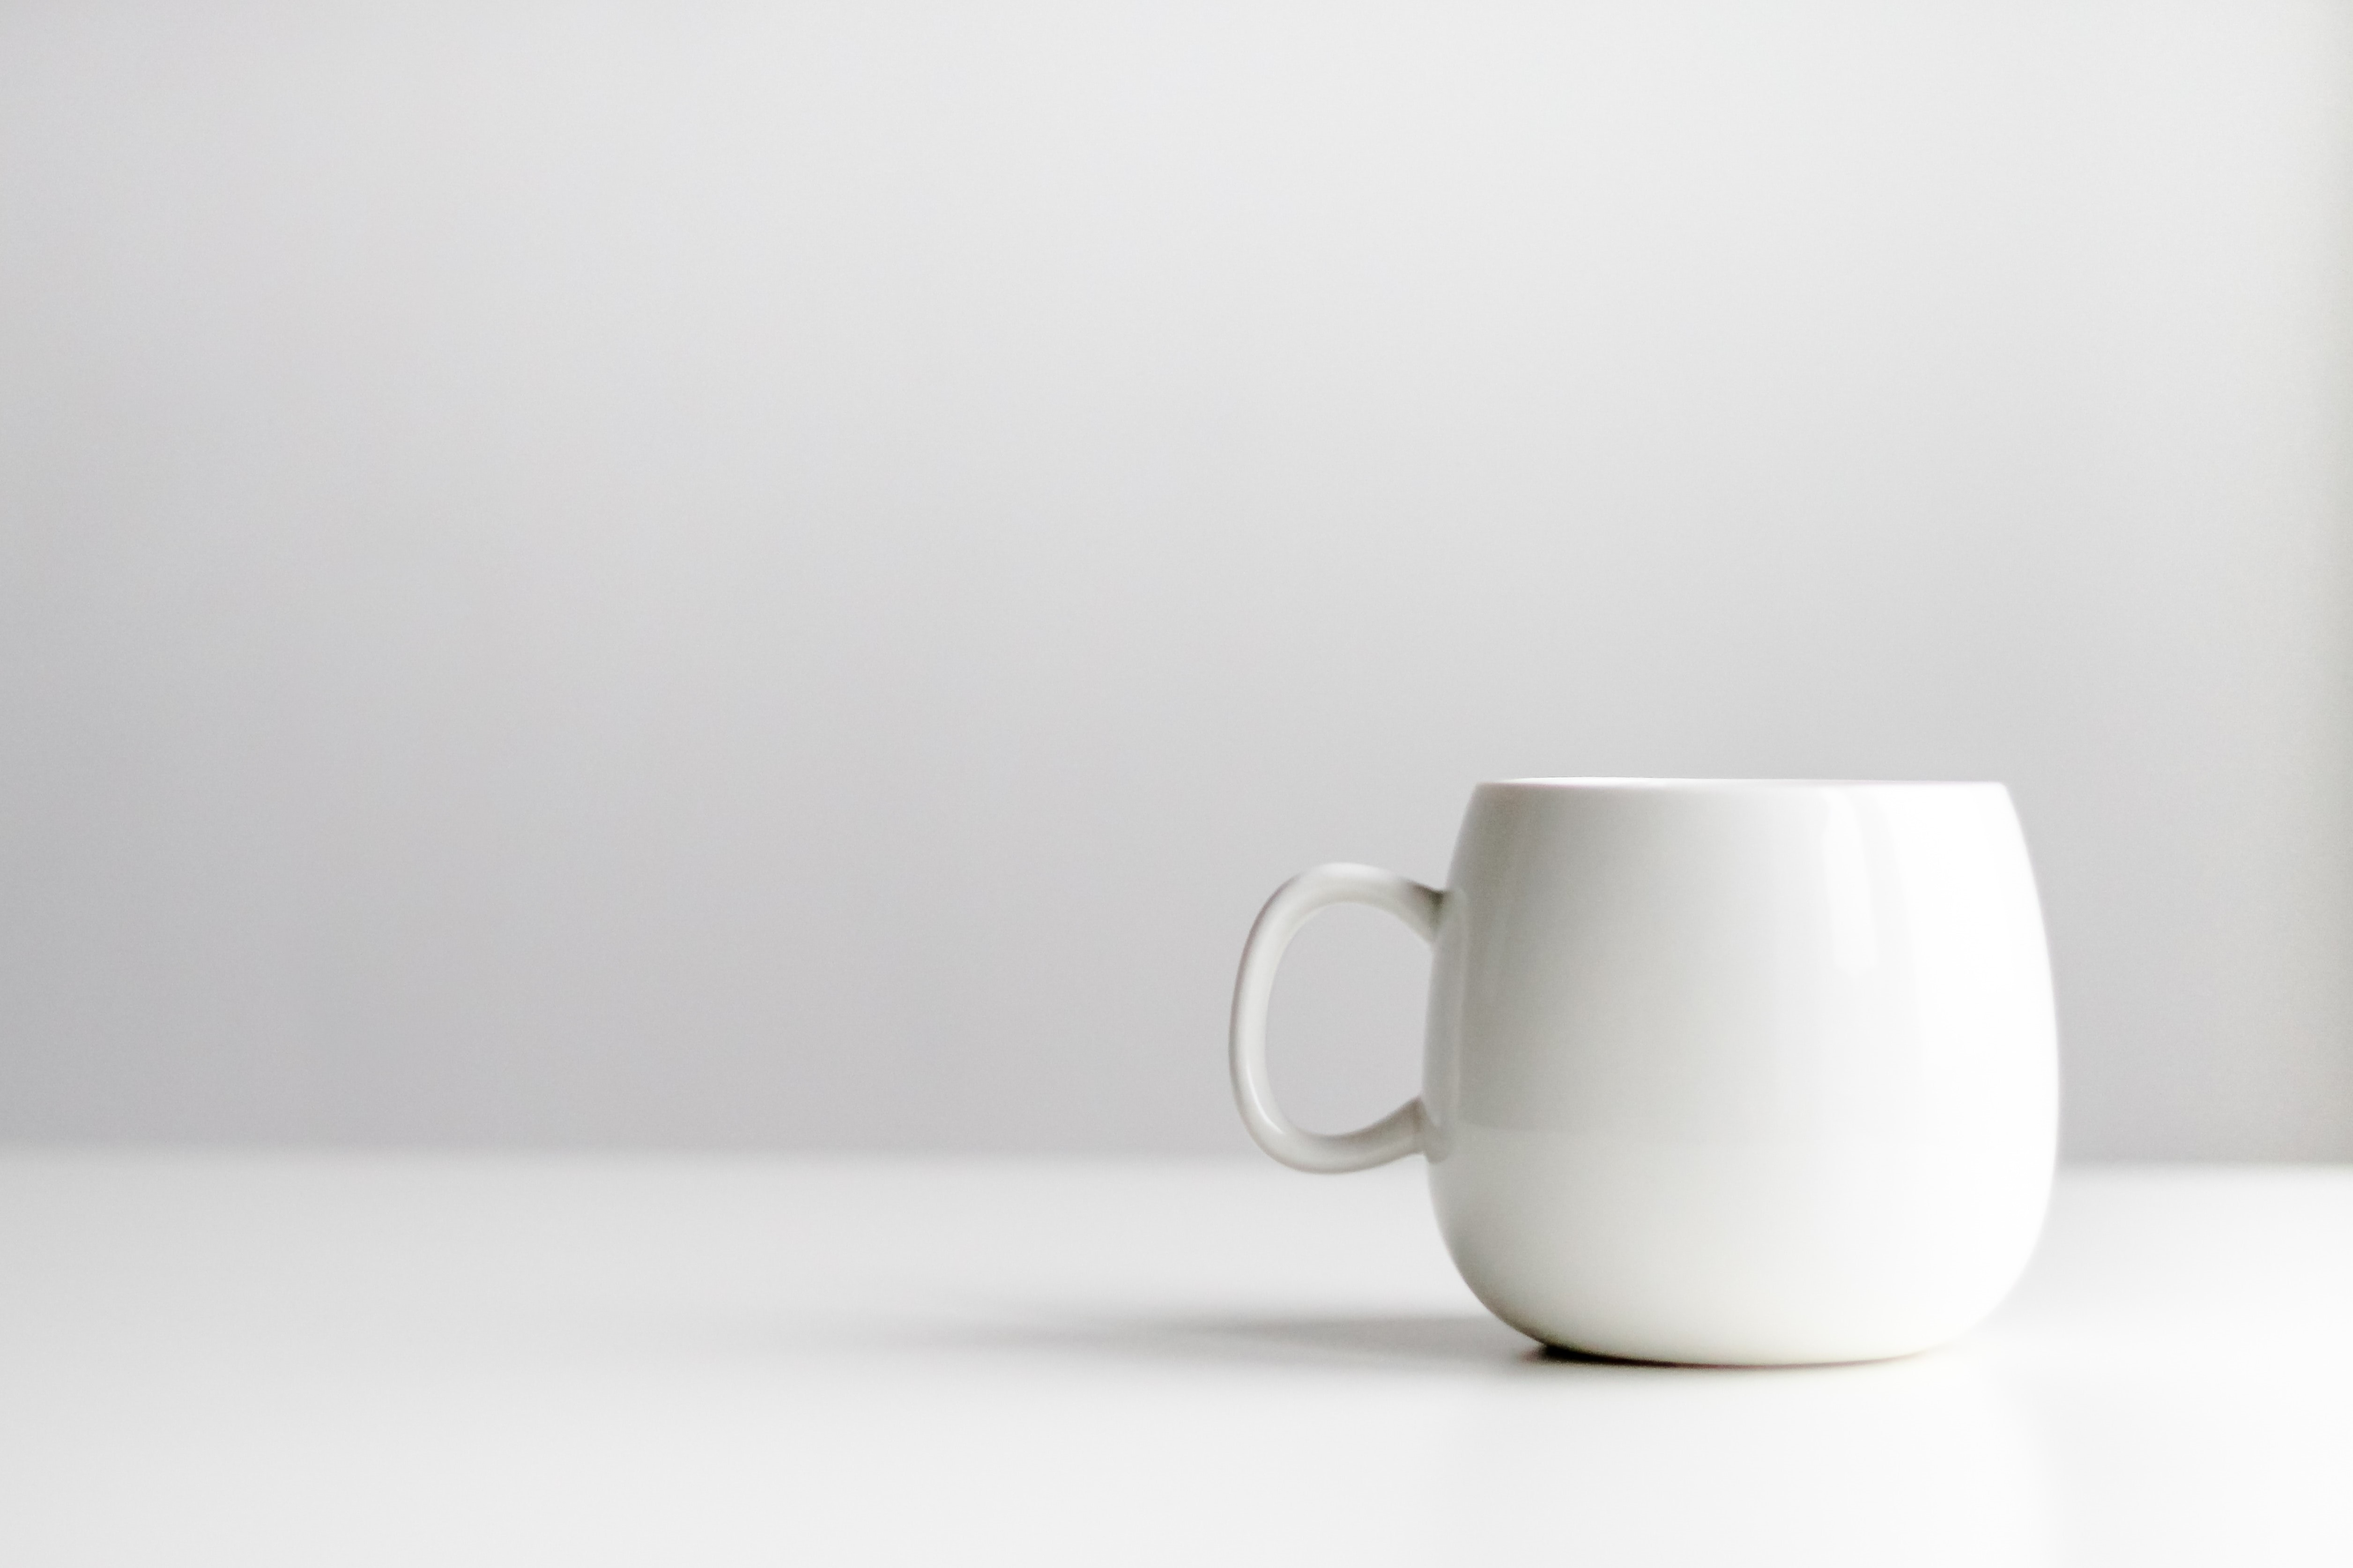
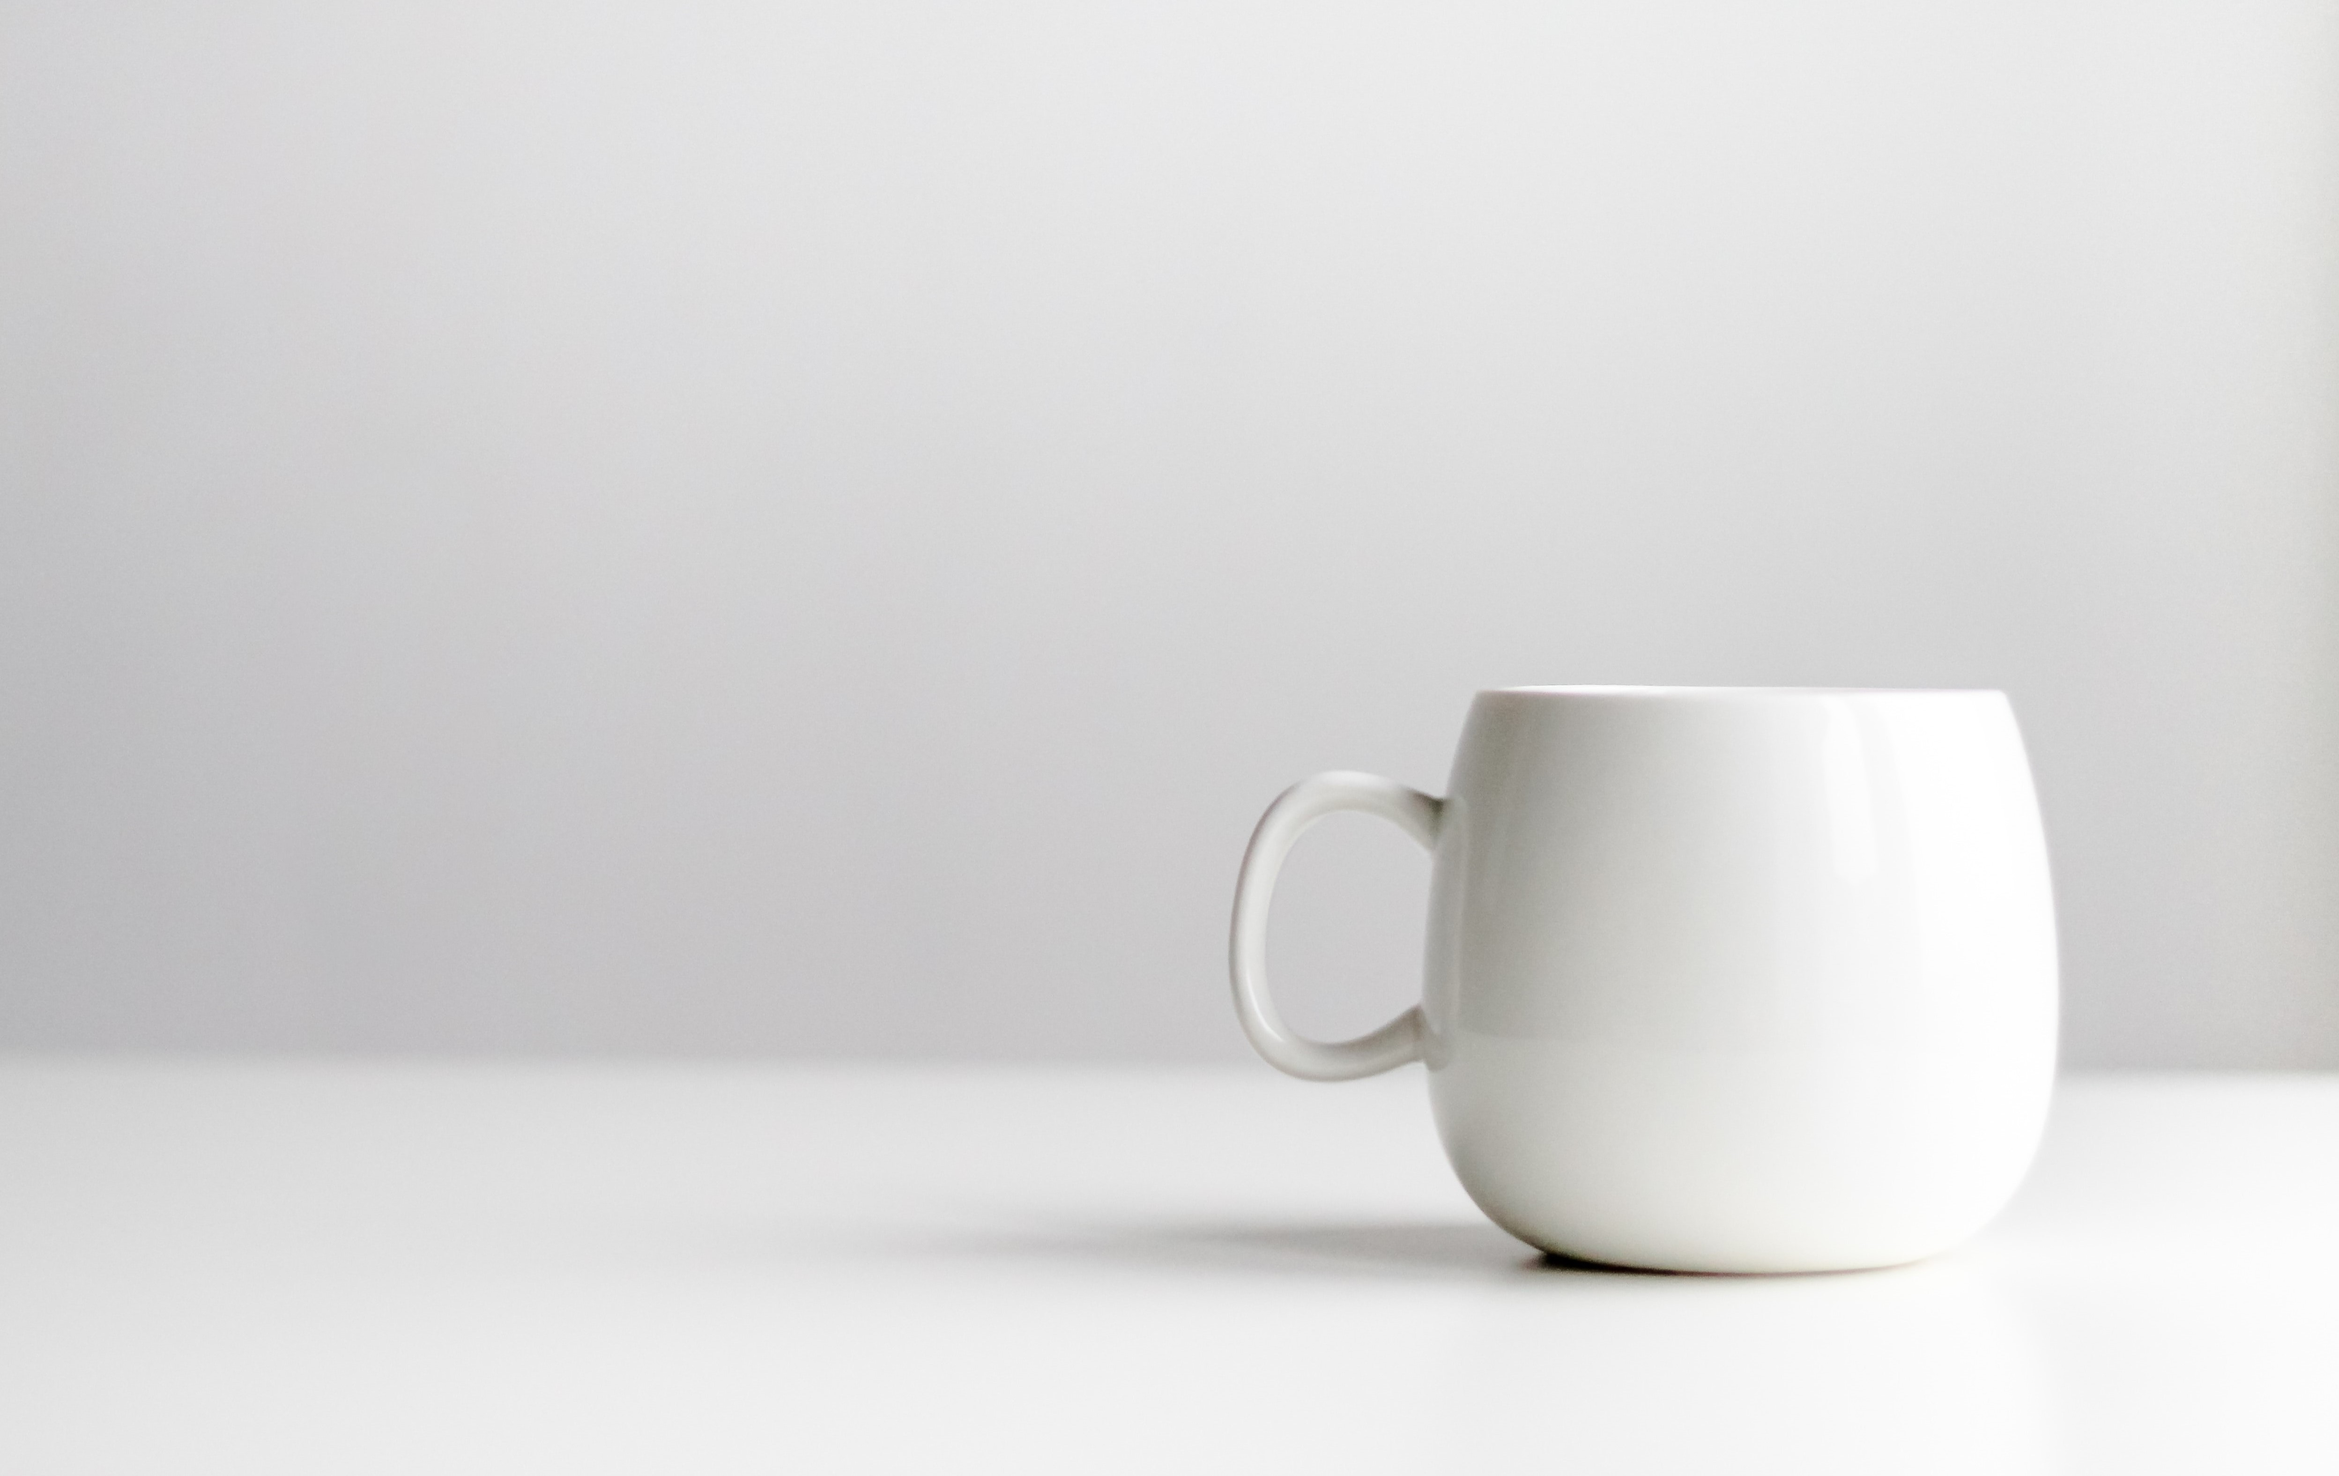
Final touch

diff --git a/src/App.css b/src/App.css
@@ -15,7 +15,7 @@ header {
   background-repeat: no-repeat;
   background-position: center;
   background-size: cover;
-  min-height: 37vh;
+  min-height: 39vh;
   margin: 0;
 }
 

diff --git a/src/components/Project/Project.css b/src/components/Project/Project.css
@@ -31,3 +31,8 @@
   padding-top: 0.5em;
   align-self: center;
 }
+
+.links a {
+  padding: 1% 4%;
+  margin: 1%;
+}
